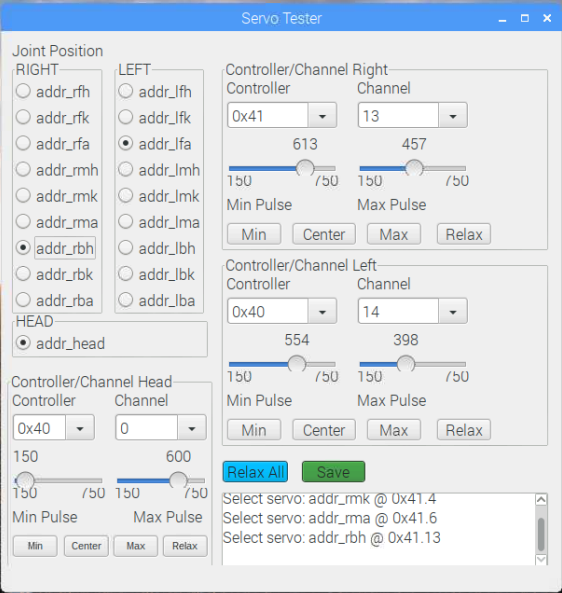
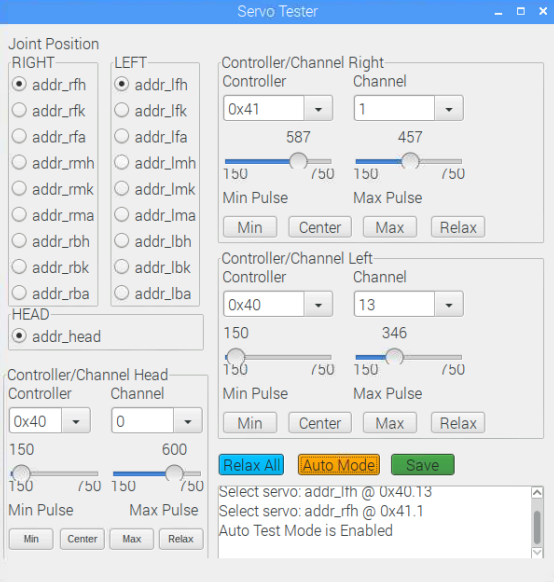
Add Auto Mode + updated screen demo

diff --git a/scripts/v2/detect_controllers.py b/scripts/v2/detect_controllers.py
@@ -14,6 +14,7 @@ class MainWindow(wx.Frame):
     def __init__(self, parent, title):
         width = 600
         height = 630
+        self.auto_test = True;
         
         # A "-1" in the size parameter instructs wxWidgets to use the default size.
         # In this case, we select 200px width and the default height.
@@ -179,7 +180,7 @@ class MainWindow(wx.Frame):
                                      label='Center')
         self.test_max = wx.Button(self, pos=(x_offset+150, y_offset), size=(60, 25), id=self.BTR_MAX,
                                   label='Max')
-        self.test_relax = wx.Button(self, pos=(x_offset+225, y_offset), size=(60, 25), id=self.BTR_RELAX,
+        self.test_relax = wx.Button(self, pos=(x_offset+223, y_offset), size=(60, 25), id=self.BTR_RELAX,
                                   label='Relax')
         y_offset += 70
         self.Bind(wx.EVT_BUTTON,self.on_test_min, self.test_min)
@@ -241,7 +242,7 @@ class MainWindow(wx.Frame):
                                      label='Center')
         self.test_max = wx.Button(self, pos=(x_offset+150, y_offset), size=(60, 25), id=self.BTL_MAX,
                                   label='Max')
-        self.test_relax = wx.Button(self, pos=(x_offset+225, y_offset), size=(60, 25), id=self.BTL_RELAX,
+        self.test_relax = wx.Button(self, pos=(x_offset+223, y_offset), size=(60, 25), id=self.BTL_RELAX,
                                   label='Relax')
         y_offset += 70
         self.Bind(wx.EVT_BUTTON,self.on_test_min, self.test_min)
@@ -322,10 +323,16 @@ class MainWindow(wx.Frame):
                                   label='Relax All')
         self.relax_all.SetBackgroundColour((0,191,255)) 
         self.relax_all.SetForegroundColour(wx.Colour(34,35,38)) 
-
         self.Bind(wx.EVT_BUTTON, self.on_relax_all, self.relax_all)
 
-        self.save = wx.Button(self, pos=(320, y_offset), size=(70, 25),
+        self.auto_mode = wx.Button(self, pos=(320, y_offset), size=(90, 25),
+                                  label='Auto Mode')
+        self.auto_mode.SetBackgroundColour((255,165,0)) 
+        self.auto_mode.SetForegroundColour(wx.Colour(34,35,38)) 
+
+        self.Bind(wx.EVT_BUTTON, self.on_auto_mode, self.auto_mode)
+
+        self.save = wx.Button(self, pos=(420, y_offset), size=(70, 25),
                                   label='Save')
         self.save.SetBackgroundColour((70,160,73))
         self.save.SetForegroundColour(wx.Colour(34, 35, 38))
@@ -426,10 +433,18 @@ class MainWindow(wx.Frame):
     def on_channel_select(self, event):
         self.logger.AppendText('Channel Select: %s\n' % event.GetString())
 
+    def on_auto_mode(self, event):
+        self.auto_test = not self.auto_test
+        self.logger.AppendText('Auto Test Mode is ' + ("Enabled" if self.auto_test else "Disabled") + '\n')
+
     def on_min_change(self, event):
+        if self.auto_test:
+                self.on_test_min(event) 
         pass
     
     def on_max_change(self, event):
+        if self.auto_test:
+                self.on_test_max(event)
         pass
 
     def on_test_min(self, event):
